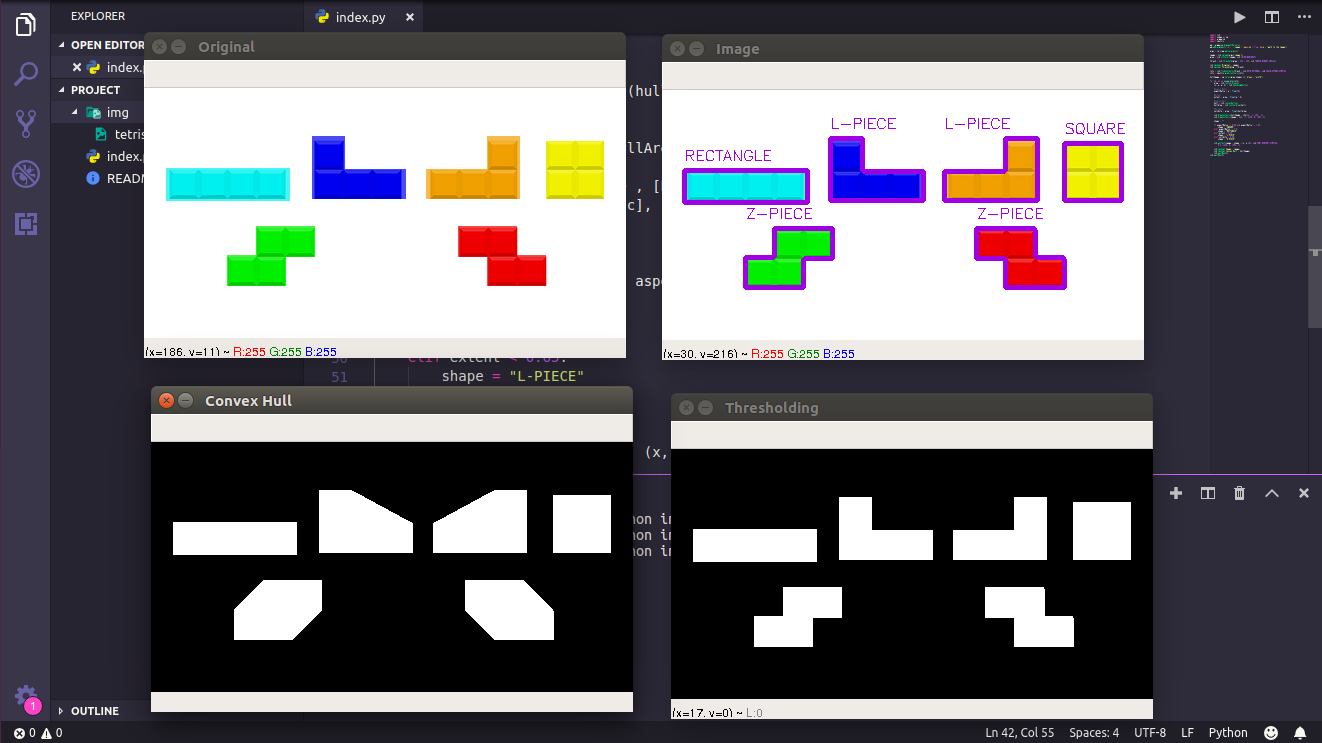
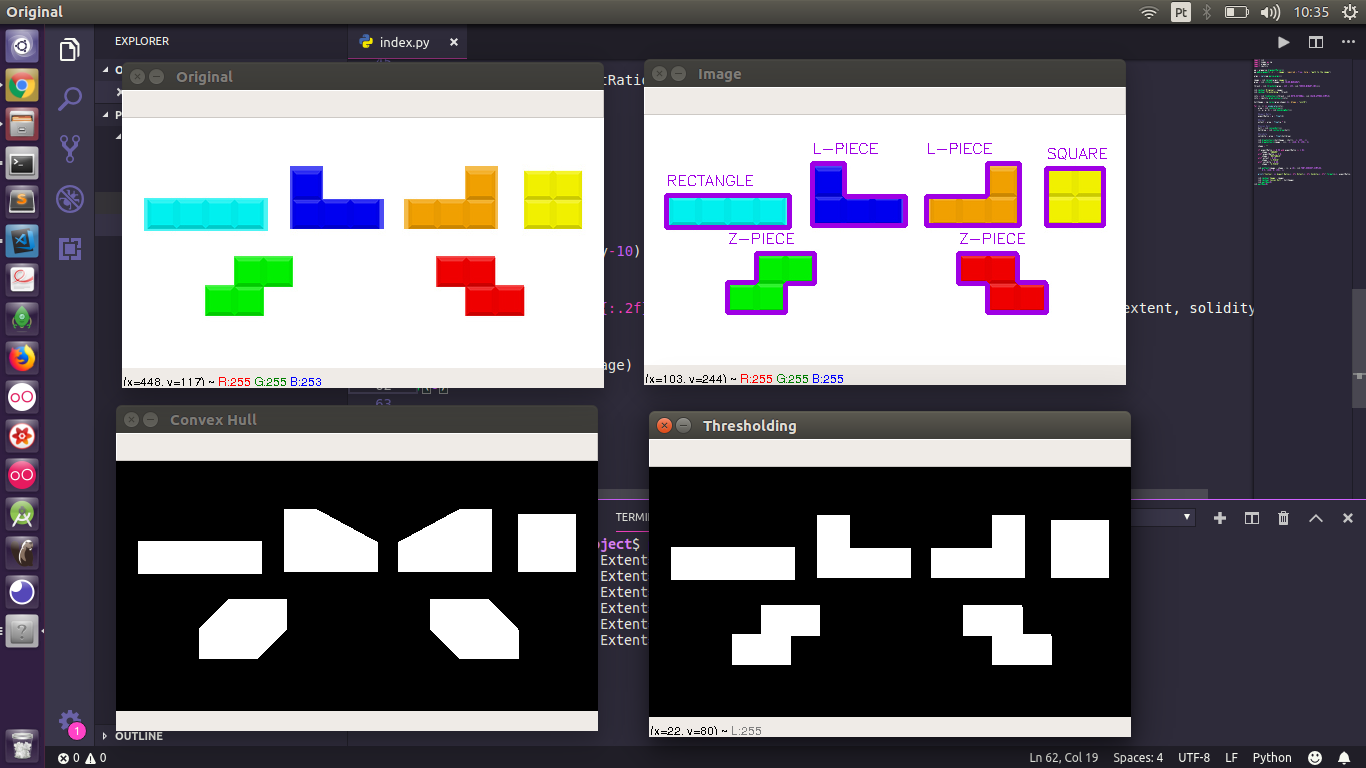
second commit

diff --git a/index.py b/index.py
@@ -54,6 +54,8 @@ for (i, c) in enumerate(cnts):
 
     cv2.putText(image , shape , (x, y-10), cv2.FONT_HERSHEY_SIMPLEX,
         0.5, (228, 0, 159), 1)
+
+    print("Contour: {} Aspect Ratio={:.2f} Extent={:.2f} Soidity={:.2f}".format(i+1, aspectRatio, extent, solidity))
     
     cv2.imshow('Image', image)
     cv2.imshow('Convex Hull', hullImage)
